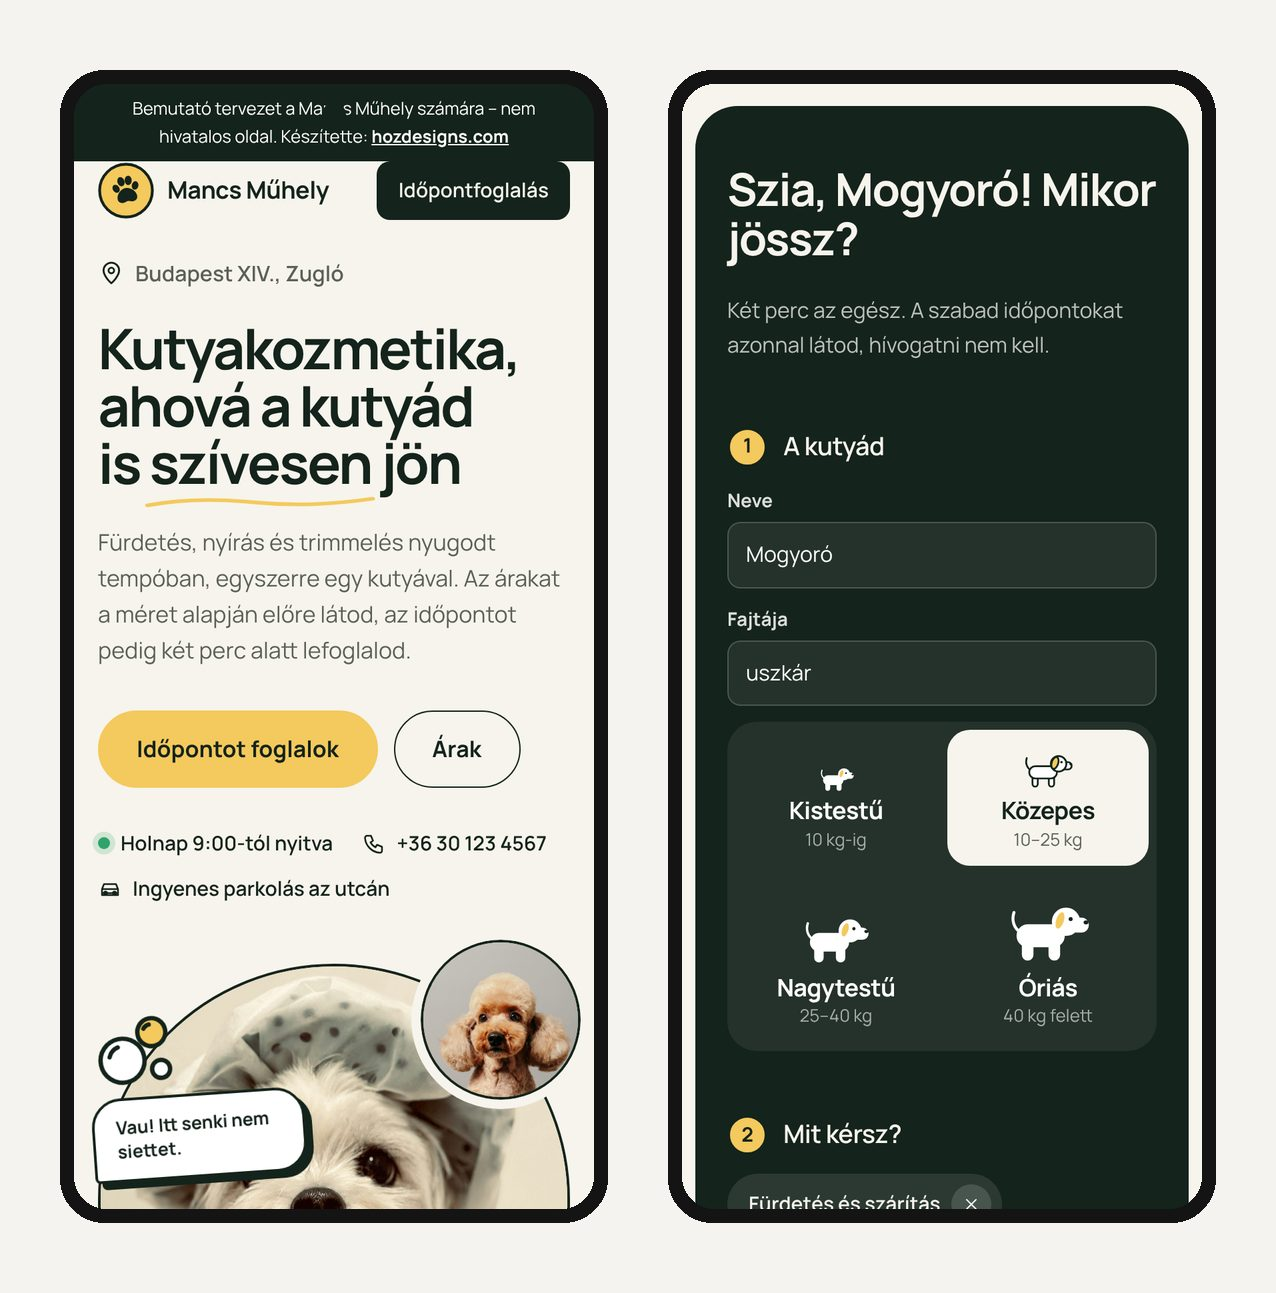
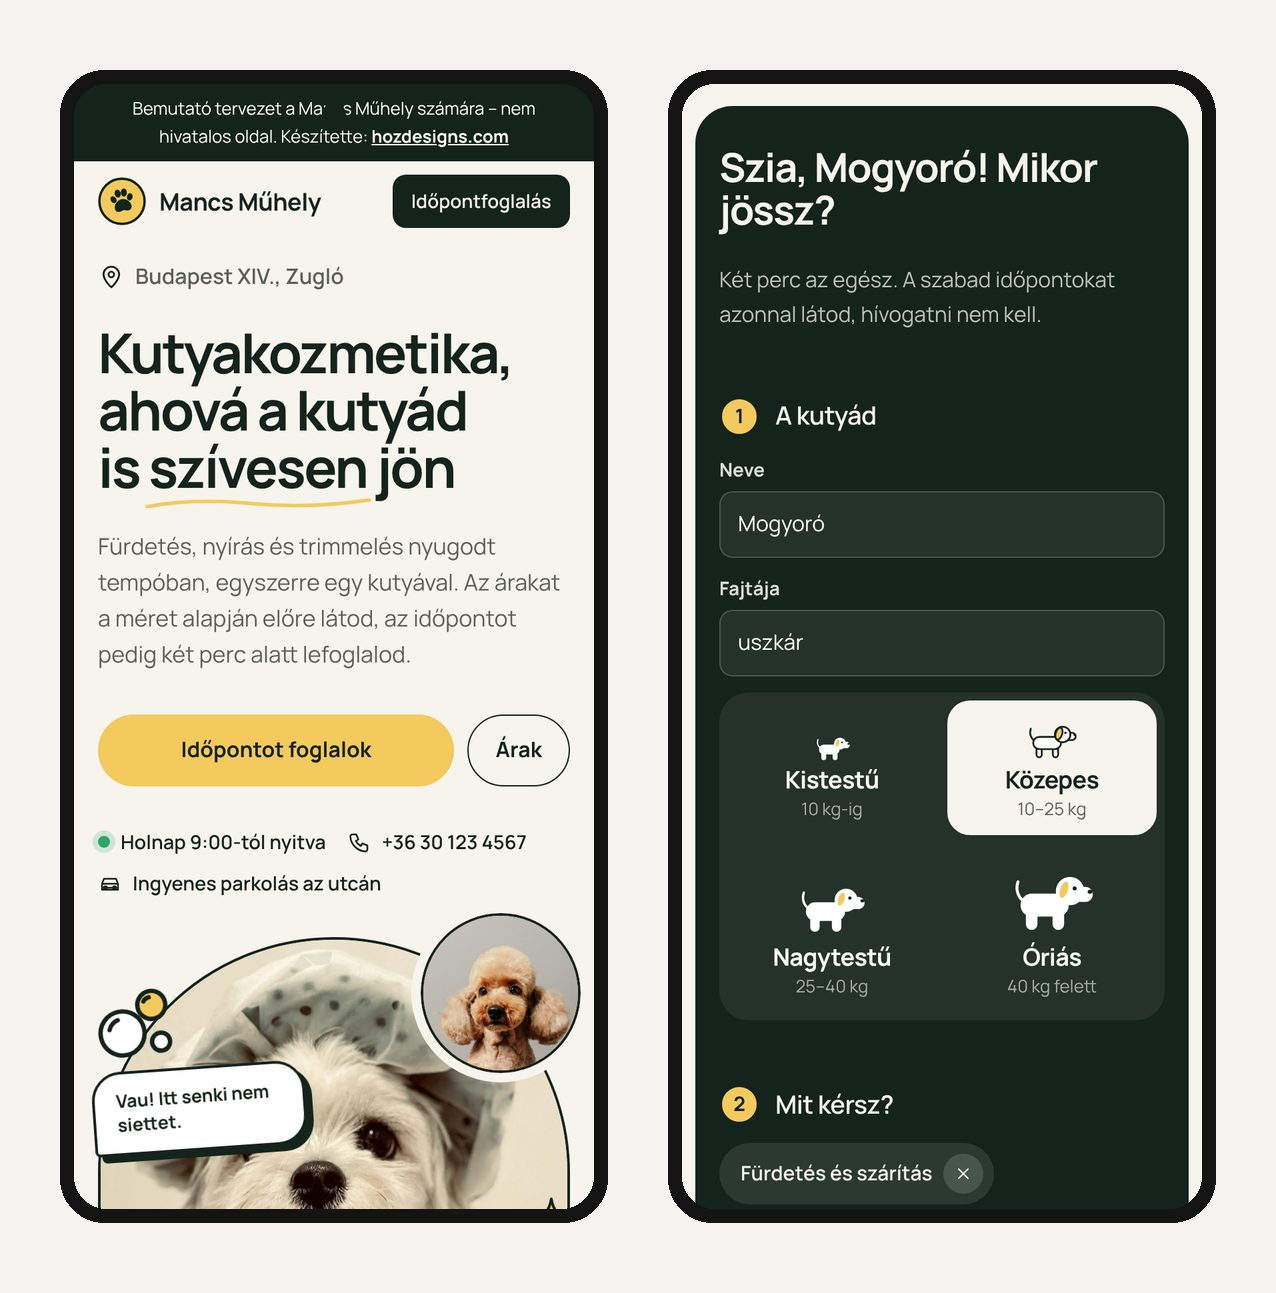
Kutyakozmetika: mobil nézet rendbe téve (térközök, ragadós fejléc, heti rácsos naptár, kompakt kártyák, nincs oldalirányú csúszás)
Claude-Session: https://claude.ai/code/session_016Run1nACTgNtgLbjaBZxC9

diff --git a/minta/teszt-kutyakozmetika/index.html b/minta/teszt-kutyakozmetika/index.html
@@ -21,7 +21,7 @@ html{scroll-behavior:smooth;-webkit-text-size-adjust:100%}
 @media (prefers-reduced-motion:reduce){html{scroll-behavior:auto}*{transition:none !important;animation:none !important}}
 body{margin:0;background:var(--paper);color:var(--ink);font:400 16px/1.6 var(--fb);-webkit-font-smoothing:antialiased}
 img{display:block;max-width:100%}
-a{color:var(--accd)}
+a{color:var(--aci,var(--accd))}
 button,input,select,textarea{font:inherit;color:inherit}
 :focus-visible{outline:3px solid var(--aci,var(--acc));outline-offset:2px;border-radius:4px}
 h1,h2,h3,h4{font-family:var(--fh);margin:0;line-height:1.08;font-weight:var(--fhw,600);letter-spacing:var(--fhs,-.015em)}
@@ -78,7 +78,7 @@ p{margin:0}
 .hours{width:100%;border-collapse:collapse;font-size:15px}
 .hours td{padding:10px 0;border-bottom:1px solid var(--line)}
 .hours td:last-child{text-align:right;font-weight:700;font-variant-numeric:tabular-nums}
-.hours tr.now td{color:var(--accd)}
+.hours tr.now td{color:var(--aci,var(--accd));font-weight:700}
 .hours tr.closed td:last-child{font-weight:400;color:var(--ink2)}
 .clist{display:grid;gap:14px;font-size:16px}
 .clist div{display:grid;grid-template-columns:24px 1fr;gap:12px;align-items:start}
@@ -174,7 +174,7 @@ footer b{color:var(--ink)}
 .sizes button[aria-pressed=true]{background:var(--ink);color:var(--paper)}
 .sizes button[aria-pressed=true] span{color:inherit;opacity:.75}
 .pl{margin-top:34px;display:grid;grid-template-columns:minmax(0,1fr) minmax(0,1fr);gap:8px 64px}
-.pl h3{font-size:15px;font-family:var(--fb);font-weight:700;letter-spacing:0;color:var(--accd);margin:22px 0 4px;grid-column:1/-1}
+.pl h3{font-size:15px;font-family:var(--fb);font-weight:700;letter-spacing:0;color:var(--aci,var(--accd));margin:22px 0 4px;grid-column:1/-1}
 .pl .cat{display:contents}
 .row{display:grid;grid-template-columns:minmax(0,1fr) auto 48px;gap:6px 16px;align-items:center;padding:16px 0;border-bottom:1px solid var(--line)}
 .row b{font-size:18px;font-weight:600;letter-spacing:-.01em;font-family:var(--fh)}
@@ -463,6 +463,61 @@ footer b{color:var(--ink)}
 .baside li .dd{width:24px;height:24px;flex:none}
 .baside .meta{font-size:14px;margin-bottom:18px}
 @media (max-width:820px){.pairs.one{grid-template-columns:minmax(0,1fr)}}
+/* ── mobil: mintha telefonra készült volna ── */
+html{overflow-x:hidden}
+.k-kutya main{overflow-x:hidden;overflow-x:clip}
+.k-kutya button,.k-kutya .btn,.k-kutya a{-webkit-tap-highlight-color:transparent;touch-action:manipulation}
+.ba input{touch-action:pan-y}
+@media (max-width:640px){
+  .k-kutya .top{position:sticky;top:0;z-index:35;background:color-mix(in srgb,var(--paper) 88%,transparent);-webkit-backdrop-filter:blur(10px);backdrop-filter:blur(10px);padding-top:10px;padding-bottom:10px}
+  .k-kutya .brand .mark{width:36px;height:36px}
+  .k-kutya .top nav a.cta{padding:9px 14px;font-size:14px;margin-left:0}
+  .k-kutya .sec{padding-top:36px;padding-bottom:36px}
+  .k-kutya .sech{margin-bottom:18px}
+  .k-kutya .sec>h2,.k-kutya .sech h2,.loy h2{font-size:27px;line-height:1.12}
+  .hero{gap:28px;padding-top:14px;padding-bottom:28px}
+  .hero h1{font-size:clamp(36px,10.6vw,44px);line-height:1.04}
+  .hero .cta{display:grid;grid-template-columns:1fr auto;gap:10px}.hero .cta .btn{min-height:54px;padding:12px 20px;font-size:16px}
+  .hero .meta{gap:8px 16px;font-size:14.5px}
+  .hpic{max-width:none;width:100%;margin-bottom:34px}
+  .mq{margin:8px 0 28px}.mq span{font-size:16px}
+  .prices{padding:26px 18px 18px;border-radius:28px}
+  .bookband{padding:30px 18px 22px;border-radius:28px;margin-top:8px;gap:24px}
+  .bookband h2{font-size:30px;line-height:1.08}
+  .days{display:grid;grid-template-columns:repeat(7,minmax(0,1fr));gap:6px;overflow:visible;padding:0}
+  .days button{width:auto;border-radius:12px;padding:7px 0 8px}
+  .days button small{font-size:9.5px;letter-spacing:-.02em;white-space:nowrap;overflow:hidden}
+  .days button small:last-child{display:none}
+  .days button b{font-size:18px}
+  .slots{grid-template-columns:repeat(4,minmax(0,1fr));gap:6px}.slots button{min-height:44px;font-size:14.5px}
+  .sumcard{padding:22px 18px}
+  .flow{gap:14px}.flow li{grid-template-columns:64px 1fr;gap:2px 14px}.flow::before{left:31px}
+  .pairs{gap:16px}.ba{border-radius:22px}
+  .baside{padding:22px 18px 20px;border-radius:22px;box-shadow:5px 5px 0 var(--ink);margin-top:14px}
+  .baside .btn{width:100%}
+  .works{gap:8px}.works button{border-radius:16px}
+  .cares{gap:12px}
+  .cares div{display:grid;grid-template-columns:48px minmax(0,1fr);gap:2px 14px;align-items:center;padding:16px 18px;border-radius:20px}
+  .cares .dd{width:48px;height:48px;margin:0;grid-row:1/3;align-self:start}
+  .cares h3{font-size:19px}.cares p{margin-top:0;font-size:15px;grid-column:2}
+  .know{grid-template-columns:1fr;gap:10px}
+  .know div{display:grid;grid-template-columns:40px minmax(0,1fr);gap:2px 14px;padding:16px 18px;border-radius:20px}
+  .know .dd,.know .ico{width:40px;height:40px;margin:0;grid-row:1/3}
+  .know b{font-size:17px;margin:0}.know p{grid-column:2}
+  .about{gap:22px}.about .pic{max-width:none}
+  .team{gap:8px;margin-top:18px}.team div{flex:1 1 150px}
+  .loy{gap:22px}.loy p{font-size:16px}
+  .loy .card{transform:rotate(1.2deg);padding:20px;max-width:none;width:100%;box-shadow:5px 5px 0 var(--ink)}
+  .loy .st i{width:46px;height:46px}.loy .st i .dd{width:28px;height:28px}
+  .visitbox{padding:24px 18px;border-radius:28px}
+  .tray{left:10px;right:10px;bottom:calc(10px + env(safe-area-inset-bottom));gap:10px;padding:7px 7px 7px 18px}
+  .tray p{min-width:0;font-size:13px;overflow:hidden;text-overflow:ellipsis}.tray b{font-size:16px}
+  .tray .btn{flex:none;min-height:46px;padding:10px 16px;font-size:14.5px}
+}
+@media (max-width:640px){
+  .flow li{grid-template-columns:60px minmax(0,1fr)}.flow .dd{width:60px;height:60px;padding:10px}.flow::before{left:29px}
+  .loy .st{display:grid;grid-template-columns:repeat(6,minmax(0,1fr));gap:6px}.loy .st i{width:auto;height:auto;aspect-ratio:1}
+}
 </style>
 </head>
 <body class="k-kutya s-alap t-alap">
